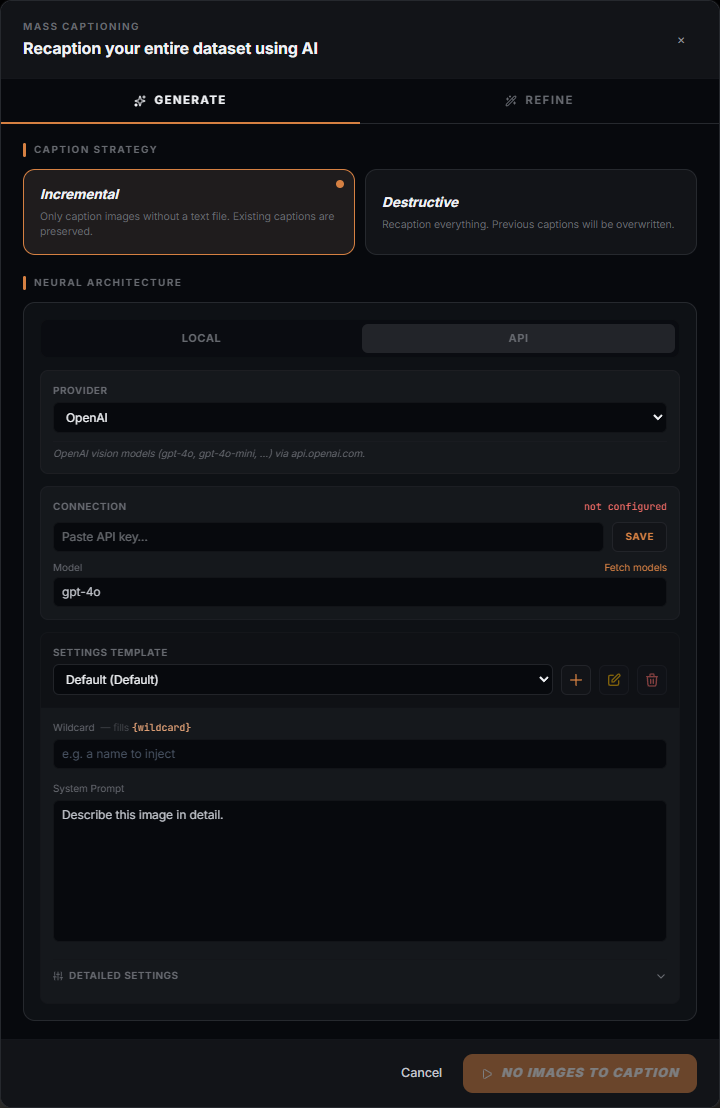
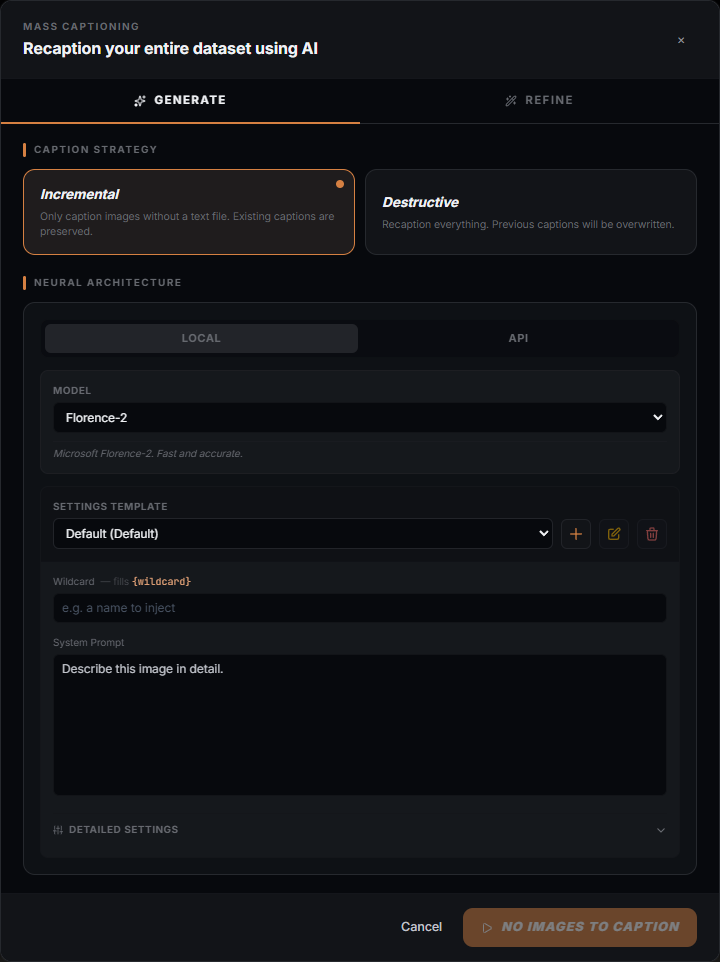
LANE-55 slice 3: caption it, then re-read the grid
- Mass Caption modal: re-shot Local (default) as the primary frame, added a
  second API frame; guide prose describes strategy + Local/API toggle
  instead of implying the top-level tabs are Local/API.
- Fixed a false claim: the Library screen header has no density control
  (three buttons are Rescan/Import/New Dataset, not "grid density").
- Density promoted to its own first-class subsection: range 3-7, default 5,
  no persistence; deliberately silent on rendered column count since
  LANE-59 is changing the grid layout.
- Structured-caption modal enumerated and documented (image+bbox pane,
  high-level description, style, palette, background, elements, raw-JSON
  escape hatch) - no screenshot this round, the in-scope dataset has no
  structured captions and generating one would mutate live data.
- workspace-browse-overview.png manifest entry marked deferred_reason
  (awaiting LANE-59) rather than re-shot.

diff --git a/documentation/datasets-guide.md b/documentation/datasets-guide.md
@@ -35,9 +35,11 @@ that guard anything permanent.
 ![Dataset Library — KPI rail, search/filter bar and the dataset grid](images/datasets-library-overview.png)
 
 Opens at `/datasets` (the app's default route). The header shows **Dataset
-Library**, the dataset count and image count for the active scope, three view
-buttons (grid density) and, when the library needs it, a **Repair cache**
-button (see "Thumbnail cache repair" below).
+Library**, the dataset count and image count for the active scope, **Rescan**
+/ **Import Dataset** / **New Dataset** buttons and, when the library needs it,
+a **Repair cache** banner (see "Thumbnail cache repair" below). There is no
+density control here — density only applies to the Workspace Browse grid
+(below), one dataset at a time.
 
 ### KPI rail
 
@@ -192,9 +194,19 @@ A segmented control switches the workspace body between three modes:
   each with a live count.
 - **Masked** / **Overlay** toggles — swap the grid to show masked images (or
   edited overlays) instead of originals. Disabled when the dataset has none.
-- **Density** slider (3–7 columns) and **Enable all** (re-includes every
-  excluded image — excluding an image keeps it in the dataset but skips it at
-  training time; this is the bulk undo for that).
+- **Enable all** — re-includes every excluded image (excluding an image keeps
+  it in the dataset but skips it at training time; this is the bulk undo for
+  that).
+
+### Density
+
+A slider in the Browse toolbar sets how many columns the grid uses, from 3
+(fewest, largest tiles) to 7 (most, smallest tiles), defaulting to 5. Fewer
+columns trade sweep speed for per-tile detail — easier to judge a crop, a
+mask overlay or a caption at a glance; more columns trade detail for an
+overview of more of the dataset at once. The setting lives on the workspace
+session, not on the dataset: it resets to 5 the next time you open a
+workspace, even for the same dataset.
 
 ### Filmstrip
 
@@ -304,23 +316,53 @@ next time you train or analyze, just not for free.
 
 Opened via the workspace's **Mass caption** button.
 
-![Mass caption modal — Generate tab](images/mass-caption-modal.png)
+![Mass caption modal — Generate tab, Local neural architecture (the default)](images/mass-caption-modal.png)
 
 Two tabs:
 
-- **Generate** — pick a local vision model or an OpenAI-compatible API
-  provider, its common parameters (temperature, top-p, max tokens — the exact
-  set of extra parameters depends on the model you pick, since each captioning
-  model defines its own schema), an optional system prompt and custom
-  instructions, then run over the whole dataset (or just the images still
-  missing a caption, depending on the strategy you choose — keep vs.
-  overwrite). Progress is a background task with live per-image status.
+- **Generate** — captioning strategy (**Incremental**, only images without a
+  caption yet, vs **Destructive**, recaption everything), then a neural
+  architecture toggle between **Local** and **API**:
+  - **Local** is the default — pick a local vision model (Florence-2, Qwen3
+    VL, Youtu-VL, JoyCaption; each with its own variant sizes and parameter
+    schema — temperature, top-p, max tokens, etc.), an optional wildcard
+    value, system prompt and custom instructions.
+  - **API** swaps the model picker for a provider (OpenAI, Anthropic, Gemini,
+    OpenRouter, or any OpenAI-compatible server) plus its endpoint/key
+    fields, since captioning then runs against that provider instead of your
+    GPU.
+
+  ![Mass caption modal — Generate tab, API neural architecture](images/mass-caption-modal-api.png)
+
+  Either way, running captions over the dataset (or just the images still
+  missing one, per the strategy above) is a background task with live
+  per-image status.
 - **Refine** — rewrite *existing* captions with a local LLM via Ollama.
   Presets: `standardize` and `synonym_merge`; style is auto (derived from the
   active model's text encoder — CLIP/SDXL-style models get tag-style
   captions, T5/large-context models get natural language) or an explicit
   override (natural language / tags). Requires Ollama reachable — the modal
   says so plainly when it isn't.
+
+### Structured caption editor
+
+Some captioning models (currently Ideogram 4's model-aware re-caption) write
+a *structured* JSON caption instead of a plain sentence — a high-level
+description plus separate style (aesthetics, lighting, medium, a render
+field), a color palette, a background description and a list of individual
+scene elements, each of which can carry its own bounding box on the image.
+Once a definition's caption format is structured, a tile whose caption
+parses as that JSON shows a compact summary in the grid with an expand icon
+(**Edit full structured caption**) instead of a plain caption box.
+
+Clicking it opens a wide two-pane editor: the image with its element
+bounding boxes overlaid (and a draw toggle to add or resize one) on the
+left, the structured fields on the right — high-level description, style,
+palette, background, an **Add element** list, and (for anything the form
+doesn't cover) a raw-JSON escape hatch. **Save** writes the edited JSON back
+as the caption; **Cancel** or Esc discards the edit. This is reachable both
+from the Browse grid tile and from the Details-mode caption sidebar, sharing
+the same modal.
 
 ### Mass mask
 
